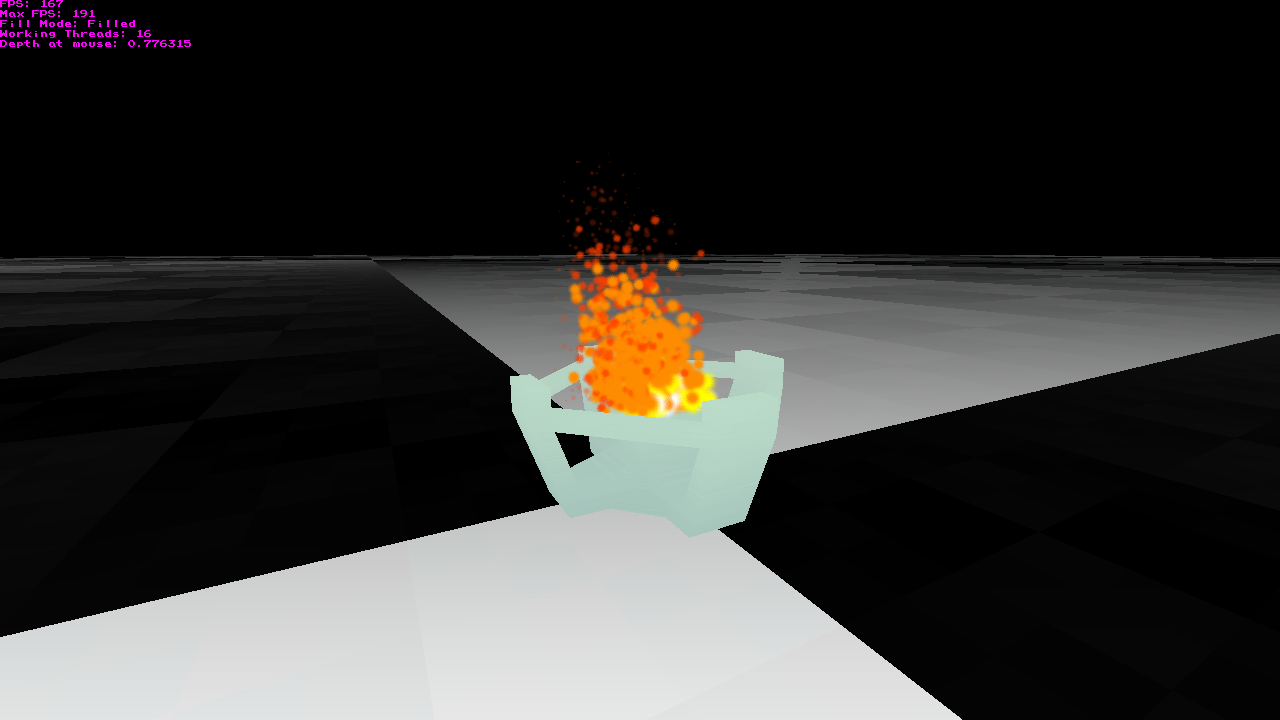
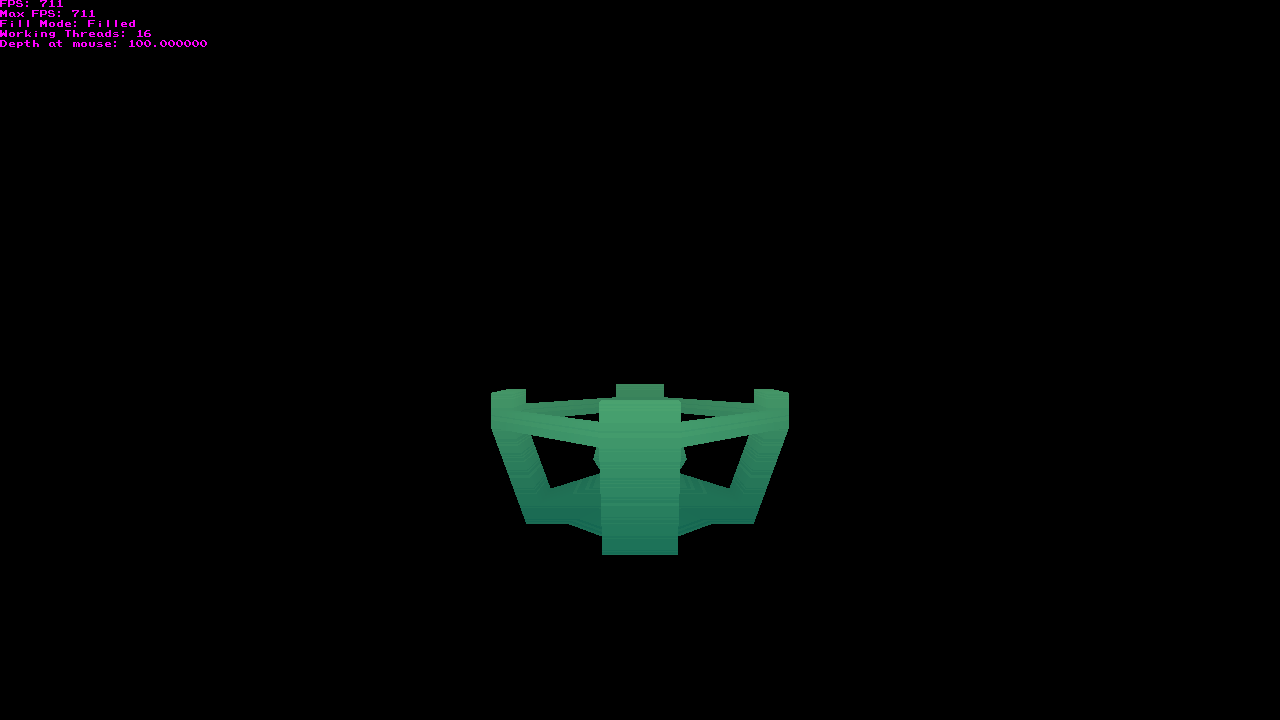
dx12 bug fixedish clipping has empty cells drawn

diff --git a/Main.cpp b/Main.cpp
@@ -68,7 +68,7 @@ public:
 		geSetAttributes(attributes);
 
 		//GenerateClips(numclips, clip, resolution);
-		clip.SetNumberOfClipsRects(16);
+		clip.SetNumberOfClipsRects(24);
 		clip.GenerateClips(resolution);
 	}
 
@@ -117,7 +117,7 @@ public:
 		uint32_t t = 0;
 		uint32_t texw = 0;
 		uint32_t texh = 0;
-		uint32_t* temp = (uint32_t*)imageloader.Load("content/colormap3.png", texw, texh, t);
+		uint32_t* temp = (uint32_t*)imageloader.Load("content/colormap2.png", texw, texh, t);
 		model.texture.data = new uint32_t[texw * texh];
 		memcpy(model.texture.data, temp, (size_t)texw * texh * 4);
 		model.texture.size.width = texw;
@@ -459,7 +459,11 @@ public:
 		//software3D.SetState(GAME_SOFTWARE3D_BACKFACECULL, true);
 		//software3D.SetState(GAME_SOFTWARE3D_COLOR_TINTING, true);
 		software3D.RenderMesh(plane,plane.tris.size(), mvpMat, camera, clip);
-
+		for (int a = 0; a < clip.numberOfClipRects; a++)
+		{
+			if (clip.clippedTris[a].size())
+				pixelMode.Rect(clip.clips[a], game::Colors::Yellow);
+		}
 		//software3D.SetState(GAME_SOFTWARE3D_BACKFACECULL, true);
 		//software3D.SetState(GAME_SOFTWARE3D_TEXTURE, true);
 		//sky.GenerateModelMatrix();
@@ -499,7 +503,7 @@ public:
 		*/
 
 
-		software3D.SetState(GAME_SOFTWARE3D_ALPHA_BLEND, false);
+		//software3D.SetState(GAME_SOFTWARE3D_ALPHA_BLEND, false);
 		//software3D.SetState(GAME_SOFTWARE3D_ALPHA_TEST, false);
 		//software3D.SetState(GAME_SOFTWARE3D_DEPTH_WRITE, true);
 		//software3D.SetState(GAME_SOFTWARE3D_SORT, game::SortingType::FrontToBack);
@@ -516,7 +520,11 @@ public:
 		software3D.SetState(GAME_SOFTWARE3D_DEPTH_WRITE, false);
 		software3D.SetState(GAME_SOFTWARE3D_LIGHTING, false);
 		software3D.SetState(GAME_SOFTWARE3D_BACKFACECULL, false);
-
+		for (int a = 0; a < clip.numberOfClipRects; a++)
+		{
+			if (clip.clippedTris[a].size())
+				pixelMode.Rect(clip.clips[a], game::Colors::Yellow);
+		}
 
 		// fire color
 		// white yellow orange red black
@@ -527,7 +535,11 @@ public:
 		emitter.Update(msElapsed);
 		software3D.RenderMesh(emitter.mesh, emitter.partsAlive*2, mvpMat, camera, clip);
 
-
+		for (int a = 0; a < clip.numberOfClipRects; a++)
+		{
+			if (clip.clippedTris[a].size())
+			pixelMode.Rect(clip.clips[a], game::Colors::Yellow);
+		}
 
 
 
